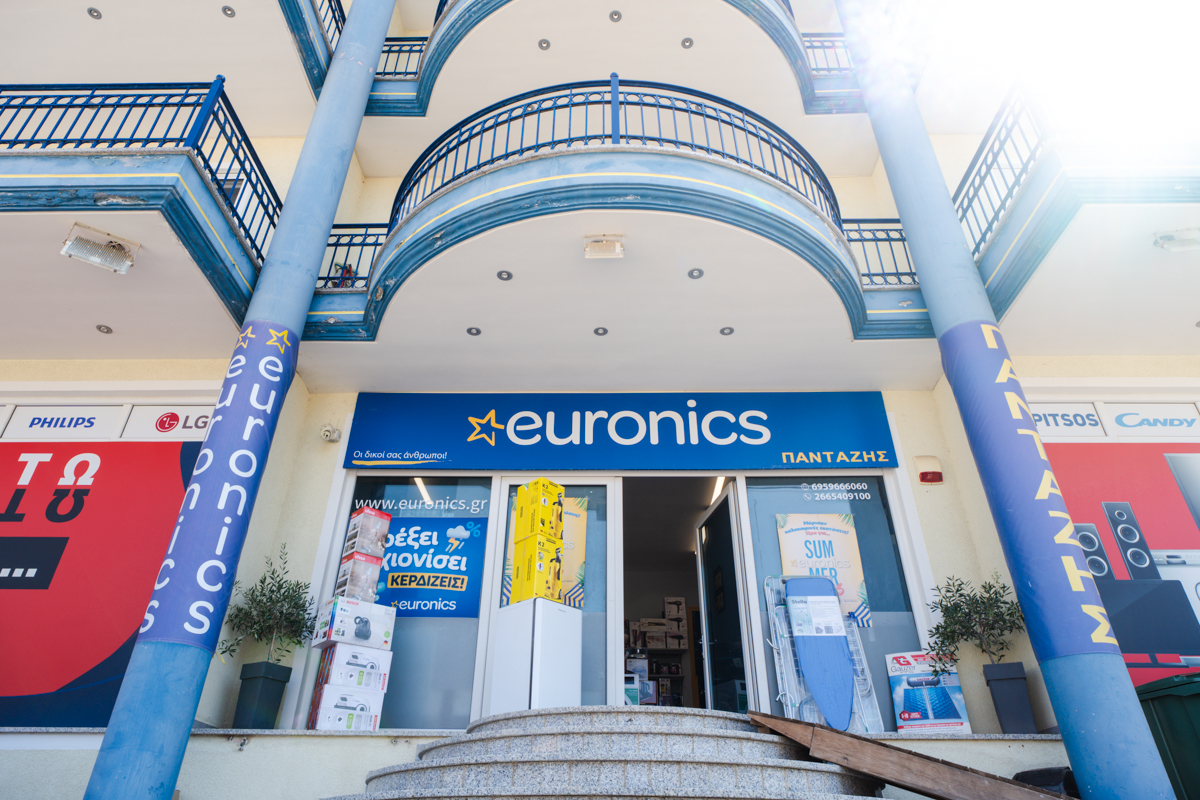
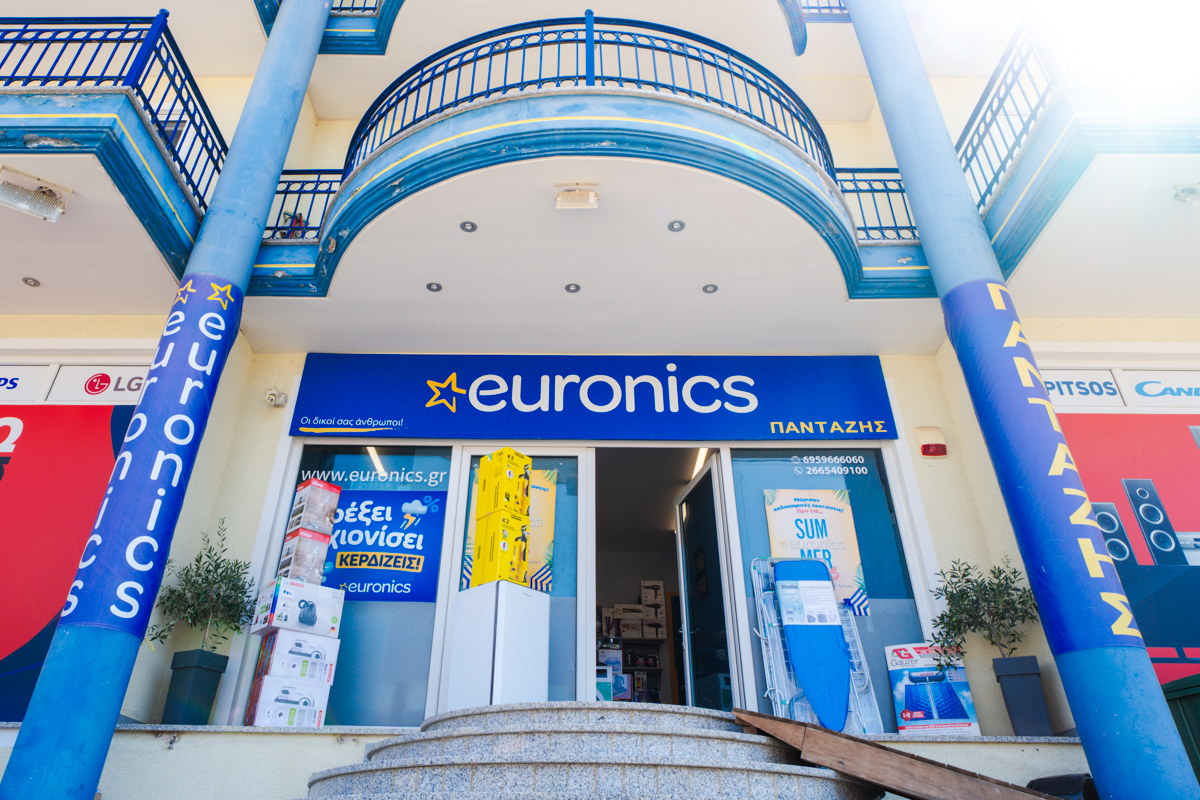
aspect-ratio contact

diff --git a/contact.html b/contact.html
@@ -148,7 +148,51 @@
         <h1>Επικοινωνία</h1>
         <p class="muted">Διάλεξε αν θες να μιλήσουμε τώρα ή να μας στείλεις μήνυμα.</p>
     
-        <!-- 1. Τηλέφωνο & Μήνυμα (δίπλα-δίπλα) -->
+        <!-- 1. Φόρμα επικοινωνίας -->
+        <section class="box form" aria-label="Φόρμα επικοινωνίας">
+        <h2>Γρήγορη φόρμα</h2>
+        <!-- TODO -->
+        <form id="contactForm"
+            action="https://formsubmit.co/pantaziseuronics@gmail.com"
+            method="POST"
+            class="mini-form" novalidate>
+            <!-- Ρυθμίσεις FormSubmit -->
+            <input type="hidden" name="_subject" value="Νέο μήνυμα από pantazis-euronics.gr">
+            <input type="hidden" name="_captcha" value="false">
+            <input type="hidden" name="_template" value="table">
+            <!-- Auto-reply προς τον πελάτη (αν συμπληρώσει email) -->
+            <input type="hidden" name="_autoresponse" value="Ευχαριστούμε για το μήνυμά σας! Το λάβαμε και θα επικοινωνήσουμε άμεσα. — Euronics Πανταζής">
+
+            <!-- Honeypot anti-spam -->
+            <input type="text" name="_honey" style="display:none" tabindex="-1" autocomplete="off">
+
+            <label>Ονοματεπώνυμο
+                <input name="name" autocomplete="name" required
+                    placeholder="Π.χ. Μαρία Παπαδοπούλου">
+            </label>
+
+            <label>Τηλέφωνο
+                <input name="phone" autocomplete="tel" inputmode="tel" required
+                    placeholder="69xx xxx xxx">
+            </label>
+
+            <label>Email (προαιρετικό)
+                <input name="email" type="email" autocomplete="email" placeholder="name@example.com">
+            </label>
+
+            <label>Μήνυμα
+                <textarea id="message" name="message" rows="2" placeholder="Γράψτε το μήνυμά σας"></textarea>
+            </label>
+
+            <button id="contactSubmit" class="btn btn-primary" type="submit">Αποστολή</button>
+            <p id="formStatus" class="muted" role="status" aria-live="polite"></p>
+        </form>
+
+        </section>
+
+
+
+        <!-- 2. Τηλέφωνο & Μήνυμα (δίπλα-δίπλα) -->
         <section class="duo" aria-label="Γρήγορες επιλογές επικοινωνίας">
         <!-- Τηλέφωνο -->
         <article class="box card call">
@@ -191,51 +235,47 @@
         </article>
         </section>
 
-        <!-- 2. Φόρμα επικοινωνίας -->
-        <section class="box form" aria-label="Φόρμα επικοινωνίας">
-        <h2>Γρήγορη φόρμα</h2>
-        <!-- TODO -->
-        <form id="contactForm"
-            action="https://formsubmit.co/pantaziseuronics@gmail.com"
-            method="POST"
-            class="mini-form" novalidate>
-            <!-- Ρυθμίσεις FormSubmit -->
-            <input type="hidden" name="_subject" value="Νέο μήνυμα από pantazis-euronics.gr">
-            <input type="hidden" name="_captcha" value="false">
-            <input type="hidden" name="_template" value="table">
-            <!-- Auto-reply προς τον πελάτη (αν συμπληρώσει email) -->
-            <input type="hidden" name="_autoresponse" value="Ευχαριστούμε για το μήνυμά σας! Το λάβαμε και θα επικοινωνήσουμε άμεσα. — Euronics Πανταζής">
-
-            <!-- Honeypot anti-spam -->
-            <input type="text" name="_honey" style="display:none" tabindex="-1" autocomplete="off">
-
-            <label>Ονοματεπώνυμο
-                <input name="name" autocomplete="name" required
-                    placeholder="Π.χ. Μαρία Παπαδοπούλου">
-            </label>
-
-            <label>Τηλέφωνο
-                <input name="phone" autocomplete="tel" inputmode="tel" required
-                    placeholder="69xx xxx xxx">
-            </label>
-
-            <label>Email (προαιρετικό)
-                <input name="email" type="email" autocomplete="email" placeholder="name@example.com">
-            </label>
-
-            <label>Μήνυμα
-                <textarea id="message" name="message" rows="2" placeholder="Γράψτε το μήνυμά σας"></textarea>
-            </label>
-
-            <button id="contactSubmit" class="btn btn-primary" type="submit">Αποστολή</button>
-            <p id="formStatus" class="muted" role="status" aria-live="polite"></p>
-        </form>
-
-
+        <!-- 3. Τρόποι Πληρωμής  -->
+        <section class="box payments" aria-label="Τρόποι πληρωμής" id="payments">
+        <details class="collapsible">
+            <summary class="collapsible-summary" role="heading" aria-level="2">
+                <span>Τρόποι Πληρωμής</span>
+            </summary>
+            <p class="muted">Μπορείτε να καταθέσετε την προκαταβολή ή το συνολικό ποσό σε έναν από τους παρακάτω λογαριασμούς:</p>
+            <ul class="list payments-list">
+                <li>
+                <b>Τράπεζα Πειραιώς</b><br>
+                <span class="iban" id="iban-piraeus">GR46 0172 4030 0054 0310 4928 230</span>
+                <button class="copy-btn" data-target="iban-piraeus" aria-label="Αντιγραφή IBAN">
+                    <svg viewBox="0 0 24 24" width="18" height="18" aria-hidden="true" focusable="false">
+                        <path d="M16 1H6a2 2 0 0 0-2 2v2h2V3h10V1zm2 4H8a2 2 0 0 0-2 2v12a2 2 0 0 0 2 2h10a2 2 0 0 0 2-2V7a2 2 0 0 0-2-2zm0 14H8V7h10v12z" fill="currentColor"/>
+                    </svg>
+                </button>
+                </li>
+                <li>
+                <b>Eurobank</b><br>
+                <span class="iban" id="iban-eurobank">GR70 0260 1150 0000 10200 7170 43</span>
+                <button class="copy-btn" data-target="iban-eurobank" aria-label="Αντιγραφή IBAN">
+                    <svg viewBox="0 0 24 24" width="18" height="18" aria-hidden="true" focusable="false">
+                        <path d="M16 1H6a2 2 0 0 0-2 2v2h2V3h10V1zm2 4H8a2 2 0 0 0-2 2v12a2 2 0 0 0 2 2h10a2 2 0 0 0 2-2V7a2 2 0 0 0-2-2zm0 14H8V7h10v12z" fill="currentColor"/>
+                    </svg>
+                </button>
+                </li>
+                <li>
+                <b>Τράπεζα Ηπείρου</b><br>
+                <span class="iban" id="iban-epirus">GR79 0750 0600 0306 0100 7630 006</span>
+                <button class="copy-btn" data-target="iban-epirus" aria-label="Αντιγραφή IBAN">
+                    <svg viewBox="0 0 24 24" width="18" height="18" aria-hidden="true" focusable="false">
+                        <path d="M16 1H6a2 2 0 0 0-2 2v2h2V3h10V1zm2 4H8a2 2 0 0 0-2 2v12a2 2 0 0 0 2 2h10a2 2 0 0 0 2-2V7a2 2 0 0 0-2-2zm0 14H8V7h10v12z" fill="currentColor"/>
+                    </svg>
+                </button>
+                </li>
+            </ul>
+        </details>
         </section>
 
         <section class="info-map" aria-label="Στοιχεία & Χάρτης">
-            <!-- 3. Στοιχεία & Ωράριο -->
+            <!-- 4. Στοιχεία & Ωράριο -->
             <section class="box info" aria-label="Στοιχεία & Ωράριο">
             <h2>Στοιχεία & Ωράριο</h2>
             <ul class="list">
@@ -254,7 +294,7 @@
             </div>
             </section>
 
-            <!-- 4. Χάρτης -->
+            <!-- 5. Χάρτης -->
             <section class="box map" aria-label="Χάρτης">
             <h2>Χάρτης</h2>
             <div class="map-embed">
@@ -264,43 +304,6 @@
             </div>
             </section>
         </section>
-
-
-        <section class="box payments" aria-label="Τρόποι πληρωμής">
-        <h2>Τρόποι Πληρωμής</h2>
-        <p class="muted">Μπορείτε να καταθέσετε την προκαταβολή ή το συνολικό ποσό σε έναν από τους παρακάτω λογαριασμούς:</p>
-        <ul class="list payments-list">
-            <li>
-            <b>Τράπεζα Πειραιώς</b><br>
-            <span class="iban" id="iban-piraeus">GR46 0172 4030 0054 0310 4928 230</span>
-            <button class="copy-btn" data-target="iban-piraeus" aria-label="Αντιγραφή IBAN">
-                <svg viewBox="0 0 24 24" width="18" height="18" aria-hidden="true" focusable="false">
-                    <path d="M16 1H6a2 2 0 0 0-2 2v2h2V3h10V1zm2 4H8a2 2 0 0 0-2 2v12a2 2 0 0 0 2 2h10a2 2 0 0 0 2-2V7a2 2 0 0 0-2-2zm0 14H8V7h10v12z" fill="currentColor"/>
-                </svg>
-            </button>
-            </li>
-            <li>
-            <b>Eurobank</b><br>
-            <span class="iban" id="iban-eurobank">GR70 0260 1150 0000 10200 7170 43</span>
-            <button class="copy-btn" data-target="iban-eurobank" aria-label="Αντιγραφή IBAN">
-                <svg viewBox="0 0 24 24" width="18" height="18" aria-hidden="true" focusable="false">
-                    <path d="M16 1H6a2 2 0 0 0-2 2v2h2V3h10V1zm2 4H8a2 2 0 0 0-2 2v12a2 2 0 0 0 2 2h10a2 2 0 0 0 2-2V7a2 2 0 0 0-2-2zm0 14H8V7h10v12z" fill="currentColor"/>
-                </svg>
-            </button>
-            </li>
-            <li>
-            <b>Τράπεζα Ηπείρου</b><br>
-            <span class="iban" id="iban-epirus">GR79 0750 0600 0306 0100 7630 006</span>
-            <button class="copy-btn" data-target="iban-epirus" aria-label="Αντιγραφή IBAN">
-                <svg viewBox="0 0 24 24" width="18" height="18" aria-hidden="true" focusable="false">
-                    <path d="M16 1H6a2 2 0 0 0-2 2v2h2V3h10V1zm2 4H8a2 2 0 0 0-2 2v12a2 2 0 0 0 2 2h10a2 2 0 0 0 2-2V7a2 2 0 0 0-2-2zm0 14H8V7h10v12z" fill="currentColor"/>
-                </svg>
-            </button>
-            </li>
-        </ul>
-        </section>
-
-
 
     </div>
     </main>

diff --git a/style.css b/style.css
@@ -98,7 +98,7 @@ img.logo-star{
 .headband h1{margin:0;font-size:clamp(22px,5vw,34px);font-weight:900}
 .headband small{opacity:.95}
 .billboard{
-  position:relative;border-radius:var(--radius);overflow:hidden;box-shadow:var(--shadow);aspect-ratio:16/9
+  position:relative;border-radius:var(--radius);overflow:hidden;box-shadow:var(--shadow);aspect-ratio:12/8
 }
 .billboard img{width:100%;height:100%;object-fit:cover;filter:saturate(1.05)}
 
@@ -867,3 +867,34 @@ body.nav-open { overflow: hidden; }
     font-size: 13.5px;
   }
 }
+
+
+
+/* ——— Payments: Accordion (details/summary) ——— */
+.payments details { margin: 0; }
+
+.payments .collapsible-summary{
+  list-style: none;
+  cursor: pointer;
+  display: flex; align-items: center; justify-content: space-between;
+  padding: 8px 0 10px;
+  font-size: 1.25rem;          /* σαν h2 */
+  font-weight: 700;
+}
+.payments .collapsible-summary::-webkit-details-marker{ display:none; } /* Safari/Chrome */
+
+.payments .collapsible-summary::after{
+  content: "▸";
+  transition: transform .2s ease;
+  margin-left: 8px;
+}
+.payments details[open] .collapsible-summary::after{ transform: rotate(90deg); }
+
+.payments .collapsible-summary:focus-visible{
+  outline: 2px solid #4f46e5;
+  outline-offset: 2px;
+}
+
+/* Λίγο κενό κάτω από τον τίτλο όταν ανοίγει */
+.payments details[open] .payments-list{ margin-top: 10px; }
+.payments details[open] .muted{ margin-top: 6px; }

diff --git a/index.html b/index.html
@@ -192,10 +192,10 @@
 
         <aside class="billboard" aria-label="Εικόνες Πανταζής (slider)">
           <div class="slides">
-            <img class="slide active"  src="images/hero.jpg"     width="1600" height="900" alt="Μαγαζί Euronics και van μεταφορών">
-            <img class="slide"         src="images/storefront.jpg" width="1600" height="900" alt="Μαγαζί πρόσοψη">
-            <img class="slide"         src="images/KATO.png"     width="1600" height="900" alt="Στο κάτω κάτω της τιμής υπάρχει ο Πανταζής">
-            <img class="slide"         src="images/base.jpg" width="1600" height="900" alt="Μαγαζί">
+            <img class="slide active"  src="images/hero.jpg"     width="1200" height="800" alt="Μαγαζί Euronics και van μεταφορών">
+            <img class="slide"         src="images/storefront.jpg" width="1200" height="800" alt="Μαγαζί πρόσοψη">
+            <img class="slide"         src="images/KATO.jpg"     width="1200" height="800" alt="Στο κάτω κάτω της τιμής υπάρχει ο Πανταζής">
+            <img class="slide"         src="images/base.jpg" width="1200" height="800" alt="Μαγαζί">
           </div>
 
           <!-- Προαιρετικά χειριστήρια (μπορείς να τα αφαιρέσεις αν δεν τα θέλεις) -->
